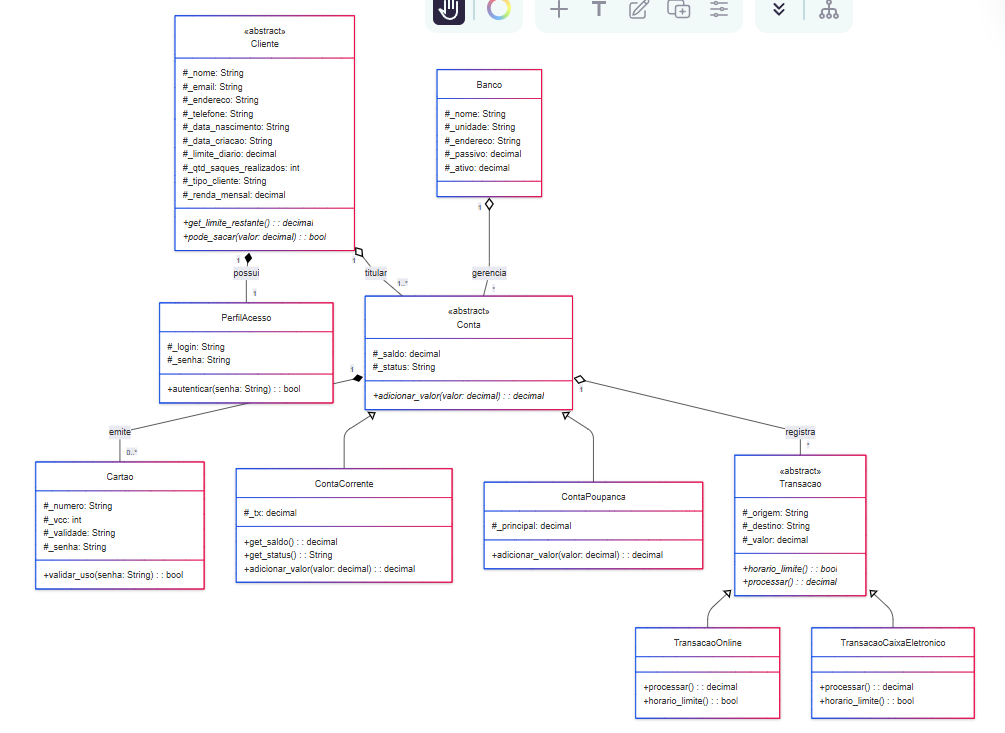
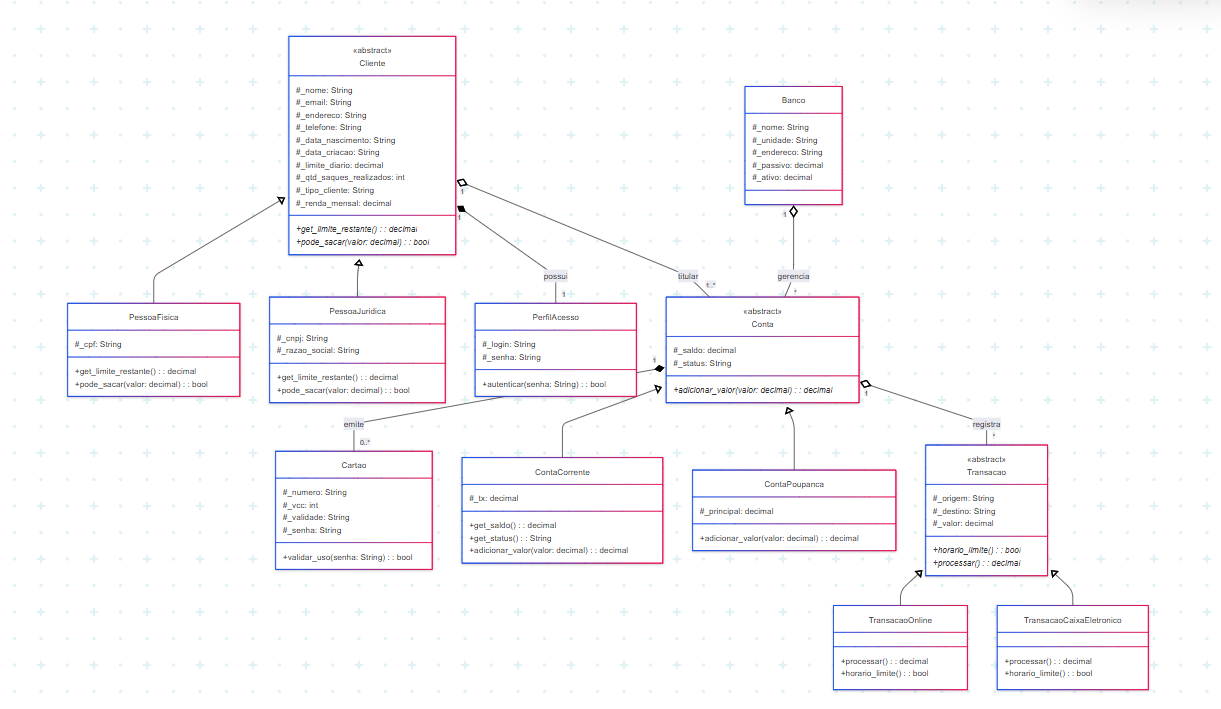
feat: Refatoração da arquitetura

diff --git a/validacoes/validacoes.py b/validacoes/validacoes.py
@@ -1,7 +1,7 @@
 from datetime import datetime
 import re
 
-def validar_email(email):
+def validar_email(email: str) -> None:
     if not isinstance(email, str):
         raise TypeError("O email deve ser uma string.")
 
@@ -10,14 +10,15 @@ def validar_email(email):
     if not re.match(padrao_regex, email):
         raise ValueError("O email fornecido não é válido.")
 
-def estrurar_data(data_string: str) -> str:
+def estruturar_data(data_string: str) -> str:
     if not isinstance(data_string, str):
         raise TypeError("A data deve ser uma string.")
 
     data_sanitizada = data_string.replace(" ", "").replace("-", "/").strip()
 
     try:
-        return datetime.strptime(data_sanitizada, "%d/%m/%Y")  
+        # Valida se a data existe e formata, garantindo a conversão correta
+        datetime.strptime(data_sanitizada, "%d/%m/%Y")  
     except ValueError:
         raise ValueError("A data não está no formato correto (DD/MM/YYYY).")
 

diff --git a/models/cliente.py b/models/cliente.py
@@ -13,14 +13,18 @@ class Cliente(ABC):
         self._limite_diario = 5
         self._renda_mensal = renda_mensal
 
-    @property
     def limite_restante(self):
         return self._limite_diario
 
 
-    @property
     @abstractmethod
     def pode_sacar(self):
-        if self._limite_diario > 0:
-            return True
-        return False
+        pass
+
+    def __eq__(self, other):
+        if not isinstance(other, Cliente):
+            return False
+        return self._email == other._email
+
+    def __repr__(self):
+        return f"Cliente(nome={self._nome}, email={self._email}, endereco={self._endereco}, telefone={self._telefone}, data_nascimento={self._data_nascimento}, data_criacao={self._data_criacao}, limite_diario={self._limite_diario}, renda_mensal={self._renda_mensal})"

diff --git a/docs/arquitetura.md b/docs/arquitetura.md
@@ -1,8 +1,3 @@
-# Arquitetura Refatorada e Normalizada do Sistema Bancário
-
-Abaixo está o diagrama de classes modelado sob os princípios de Orientação a Objetos (SOLID, Polimorfismo, e normalização de atributos).
-
-```
 ---
 config:
   theme: mc
@@ -24,6 +19,19 @@ class Cliente {
 
     +get_limite_restante()* : decimal
     +pode_sacar(valor: decimal)* : bool
+}
+
+class PessoaFisica {
+    #_cpf: String
+    +get_limite_restante(): decimal
+    +pode_sacar(valor: decimal): bool
+}
+
+class PessoaJuridica {
+    #_cnpj: String
+    #_razao_social: String
+    +get_limite_restante(): decimal
+    +pode_sacar(valor: decimal): bool
 }
 
 class PerfilAcesso {
@@ -88,6 +96,8 @@ class TransacaoCaixaEletronico {
 }
 
 %% Heranças
+Cliente <|-- PessoaFisica
+Cliente <|-- PessoaJuridica
 Transacao <|-- TransacaoOnline
 Transacao <|-- TransacaoCaixaEletronico
 Conta <|-- ContaPoupanca
